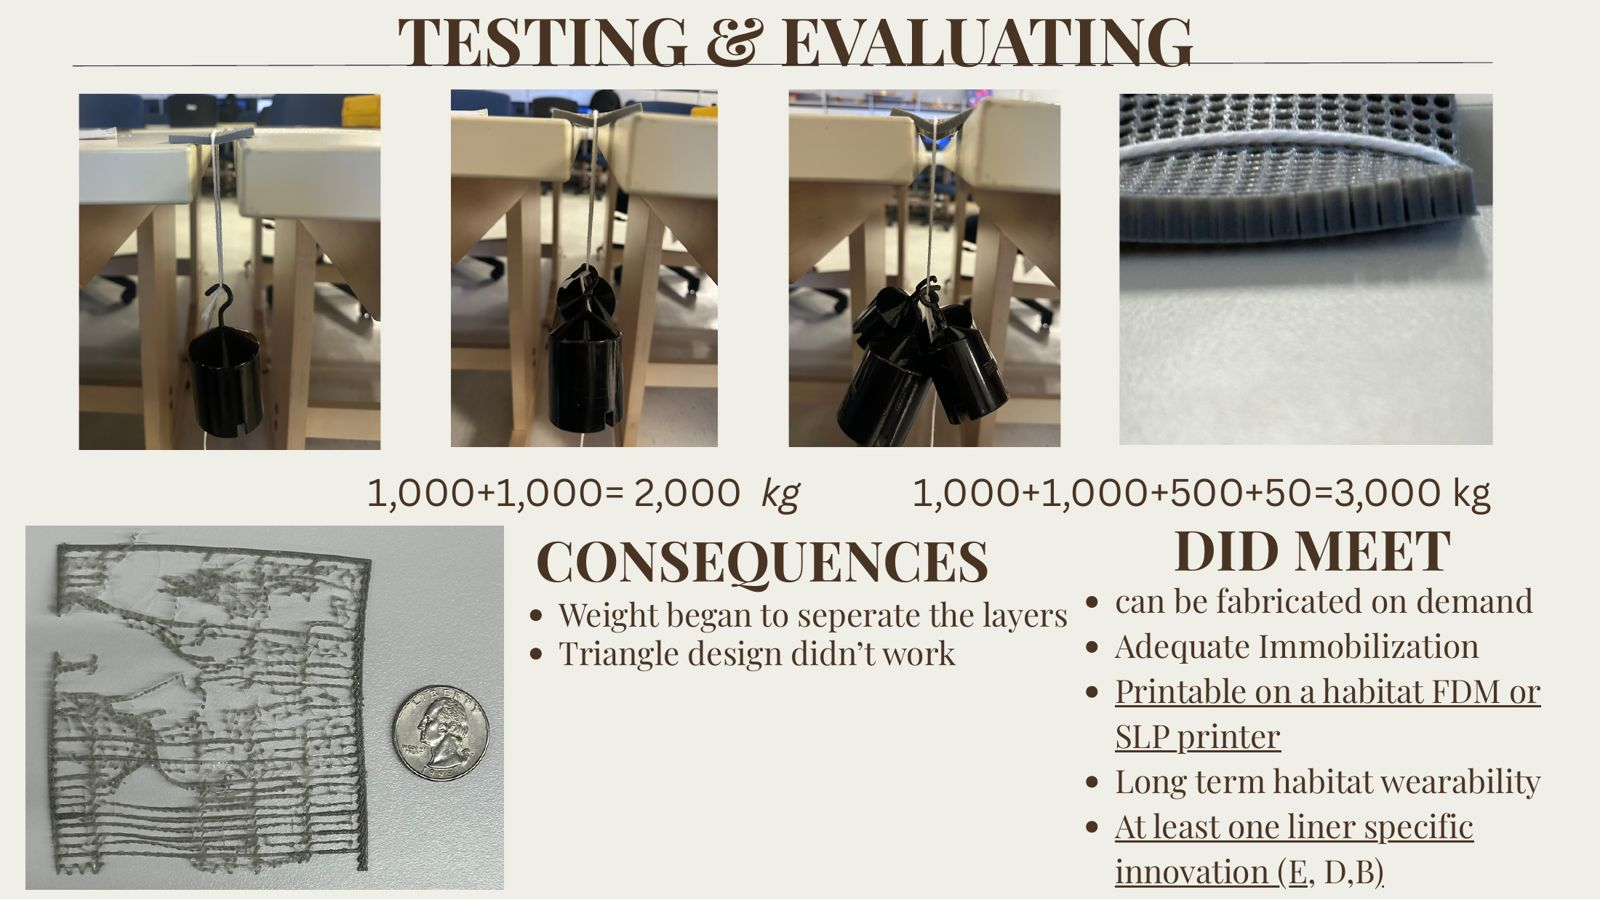
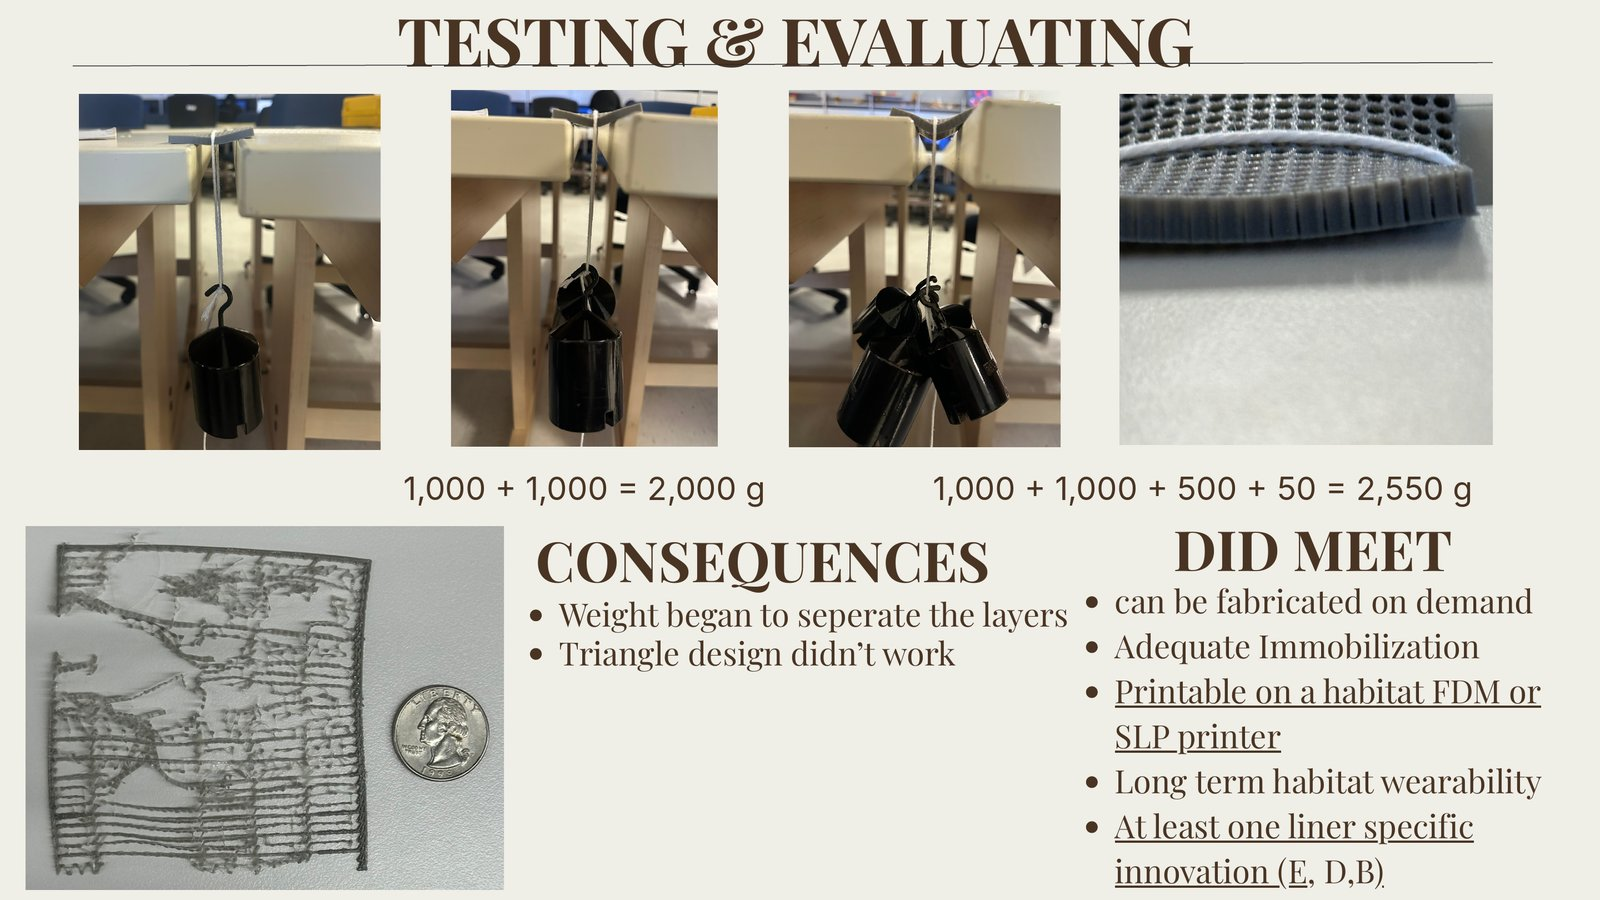
Add hanging-weight test loads and corrected testing slide
Claude-Session: https://claude.ai/code/session_01BrZzckZhtJnifegXE49Z2Z

diff --git a/lib/content.ts b/lib/content.ts
@@ -234,7 +234,7 @@ export const prototypeSlides = [
   {
     src: "/images/testing.jpg",
     alt: "Load tests hanging weights from printed samples, and a sample whose layers separated.",
-    caption: "Load testing with hanging weights. Weight began to separate the layers",
+    caption: "Hanging-weight test up to 2,550 g. The weight began to separate the layers",
   },
   {
     src: "/images/cad-drawing.jpg",
@@ -245,7 +245,11 @@ export const prototypeSlides = [
 
 export const testResults = [
   { sample: "PETG, holes", result: "Very flexible, but started to break after constant bending", outcome: "Rejected" },
-  { sample: "TPU, holes", result: "Layers started to separate under hanging weight", outcome: "Rejected" },
+  {
+    sample: "TPU, holes",
+    result: "Hung weights in steps of 1,000 g, 2,000 g and 2,550 g (1,000 + 1,000 + 500 + 50). The layers started to separate",
+    outcome: "Rejected",
+  },
   { sample: "Triangle hole pattern", result: "Did not hold up", outcome: "Rejected" },
   { sample: "TPU, solid (no holes)", result: "Much less flexible, firm when bent, and moulds slightly to the finger", outcome: "Chosen" },
   { sample: "Straps at key points", result: "Increased support and kept the ankle from moving", outcome: "Chosen" },
